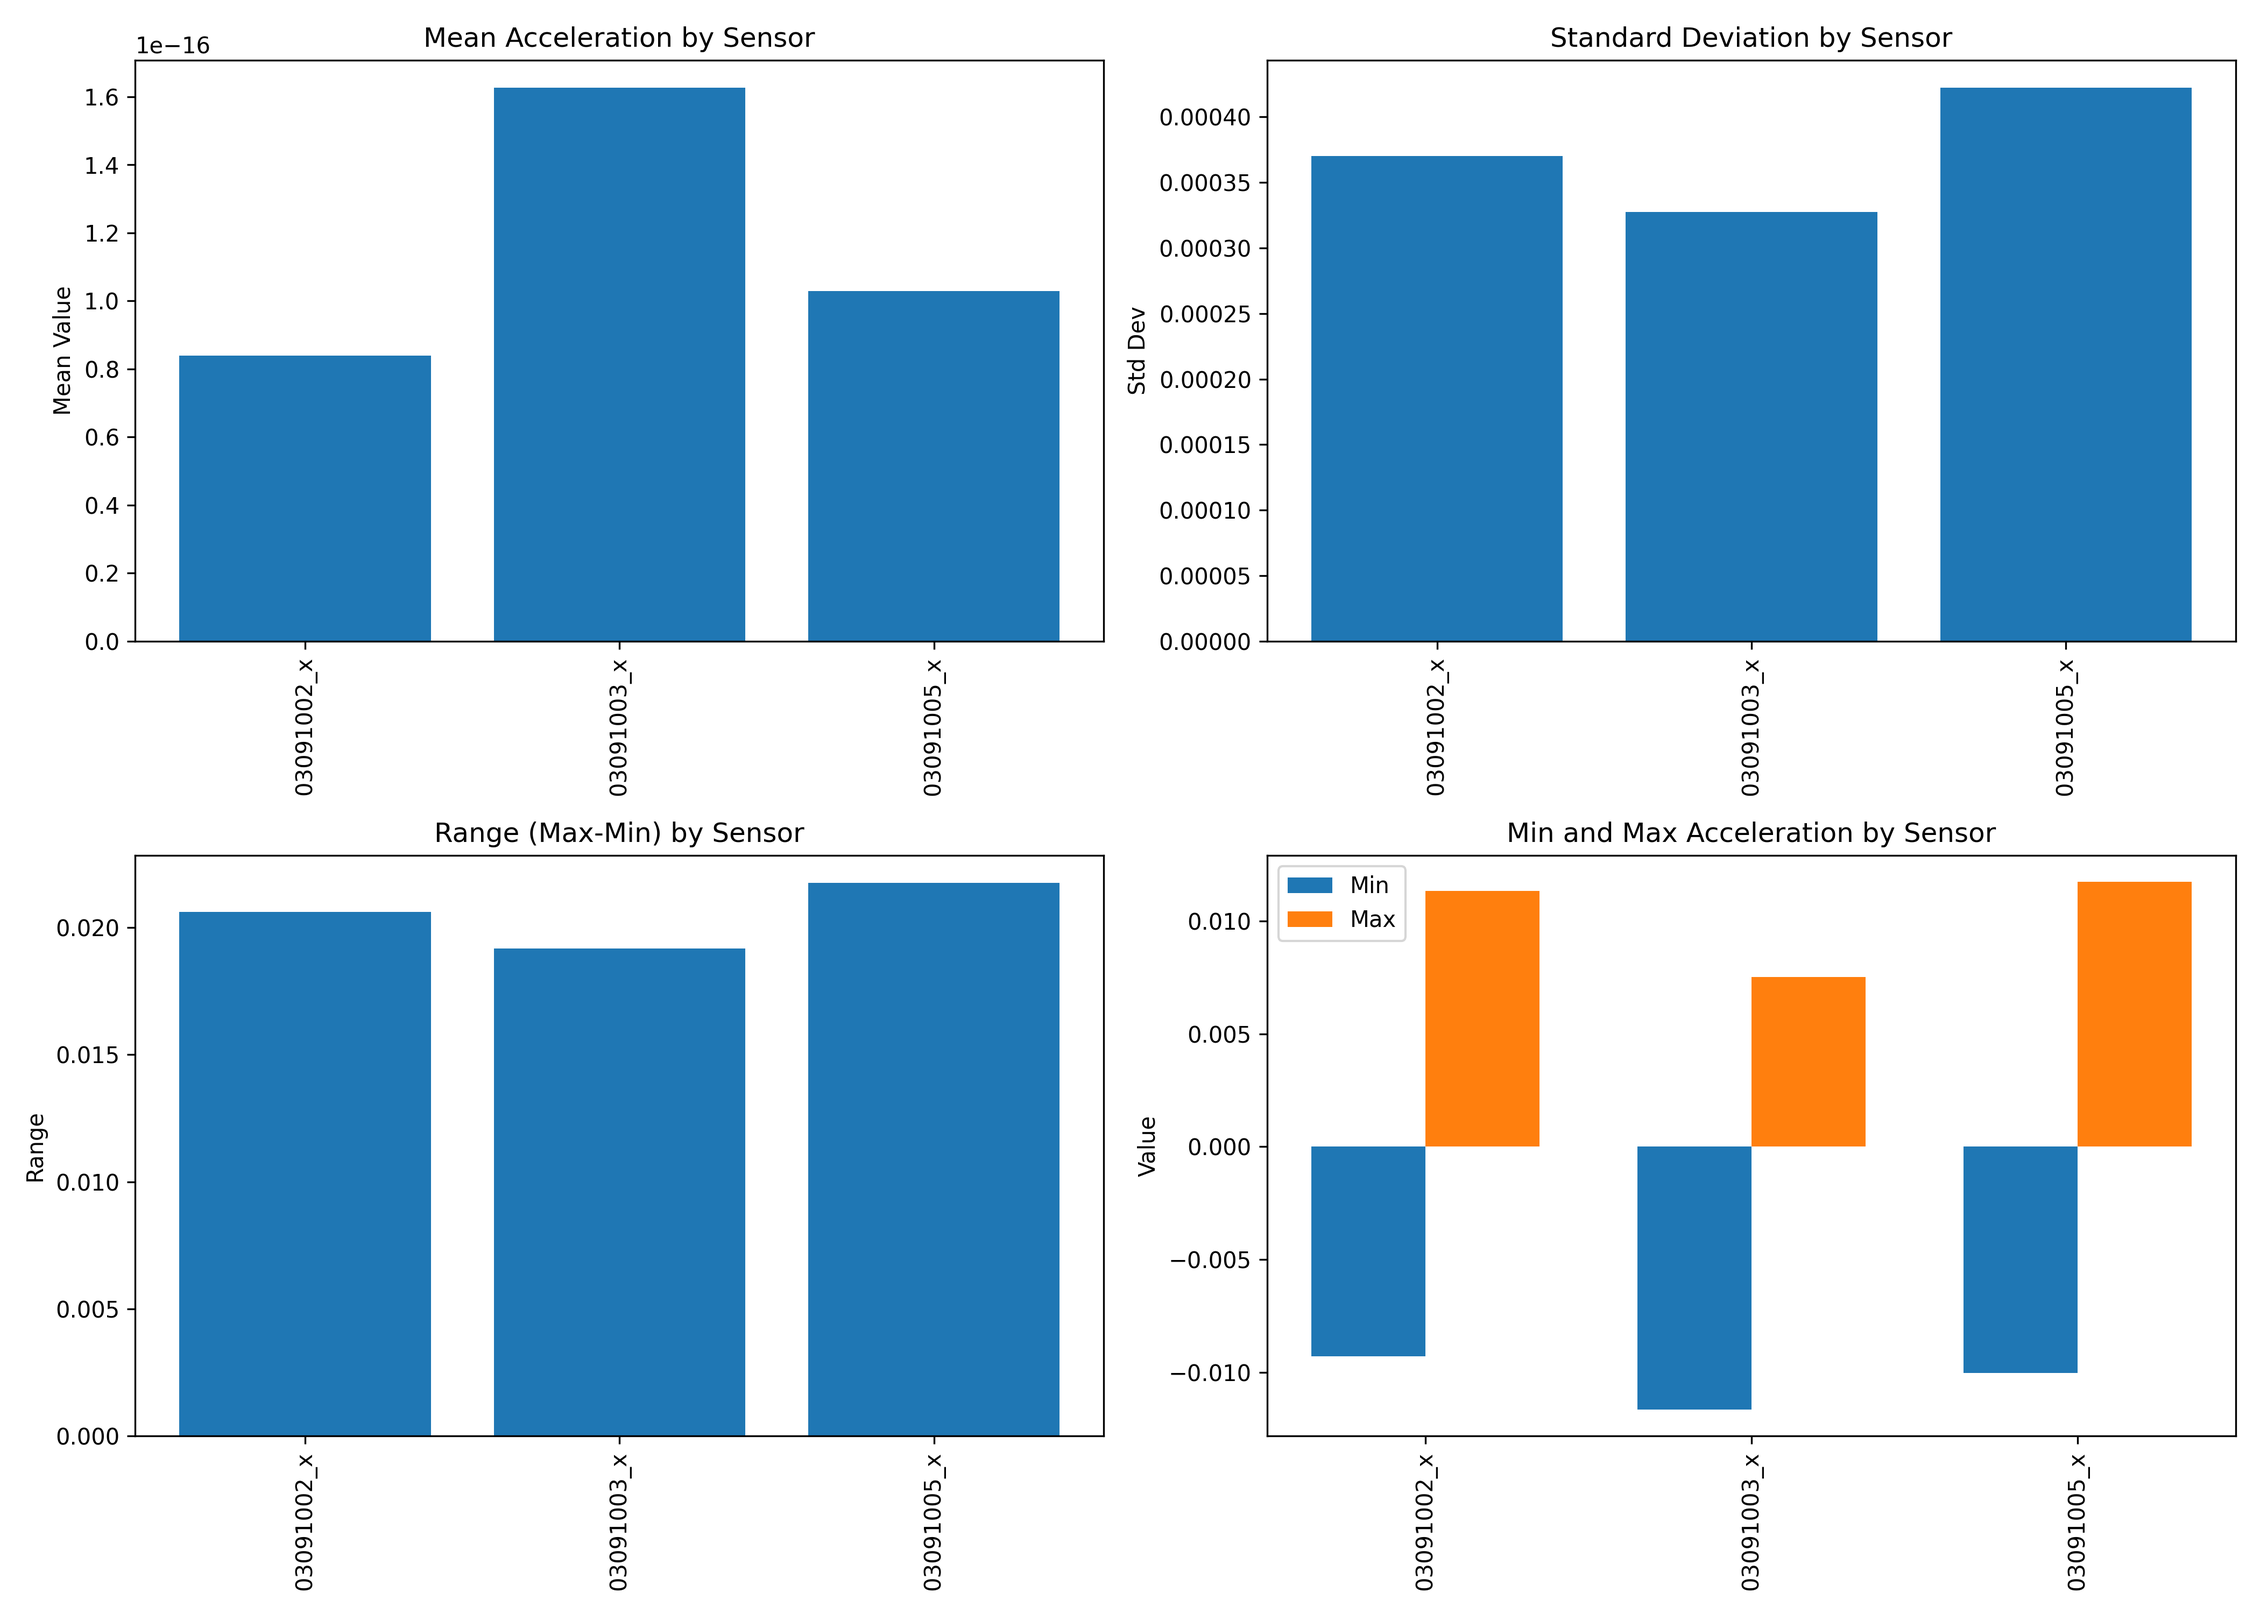
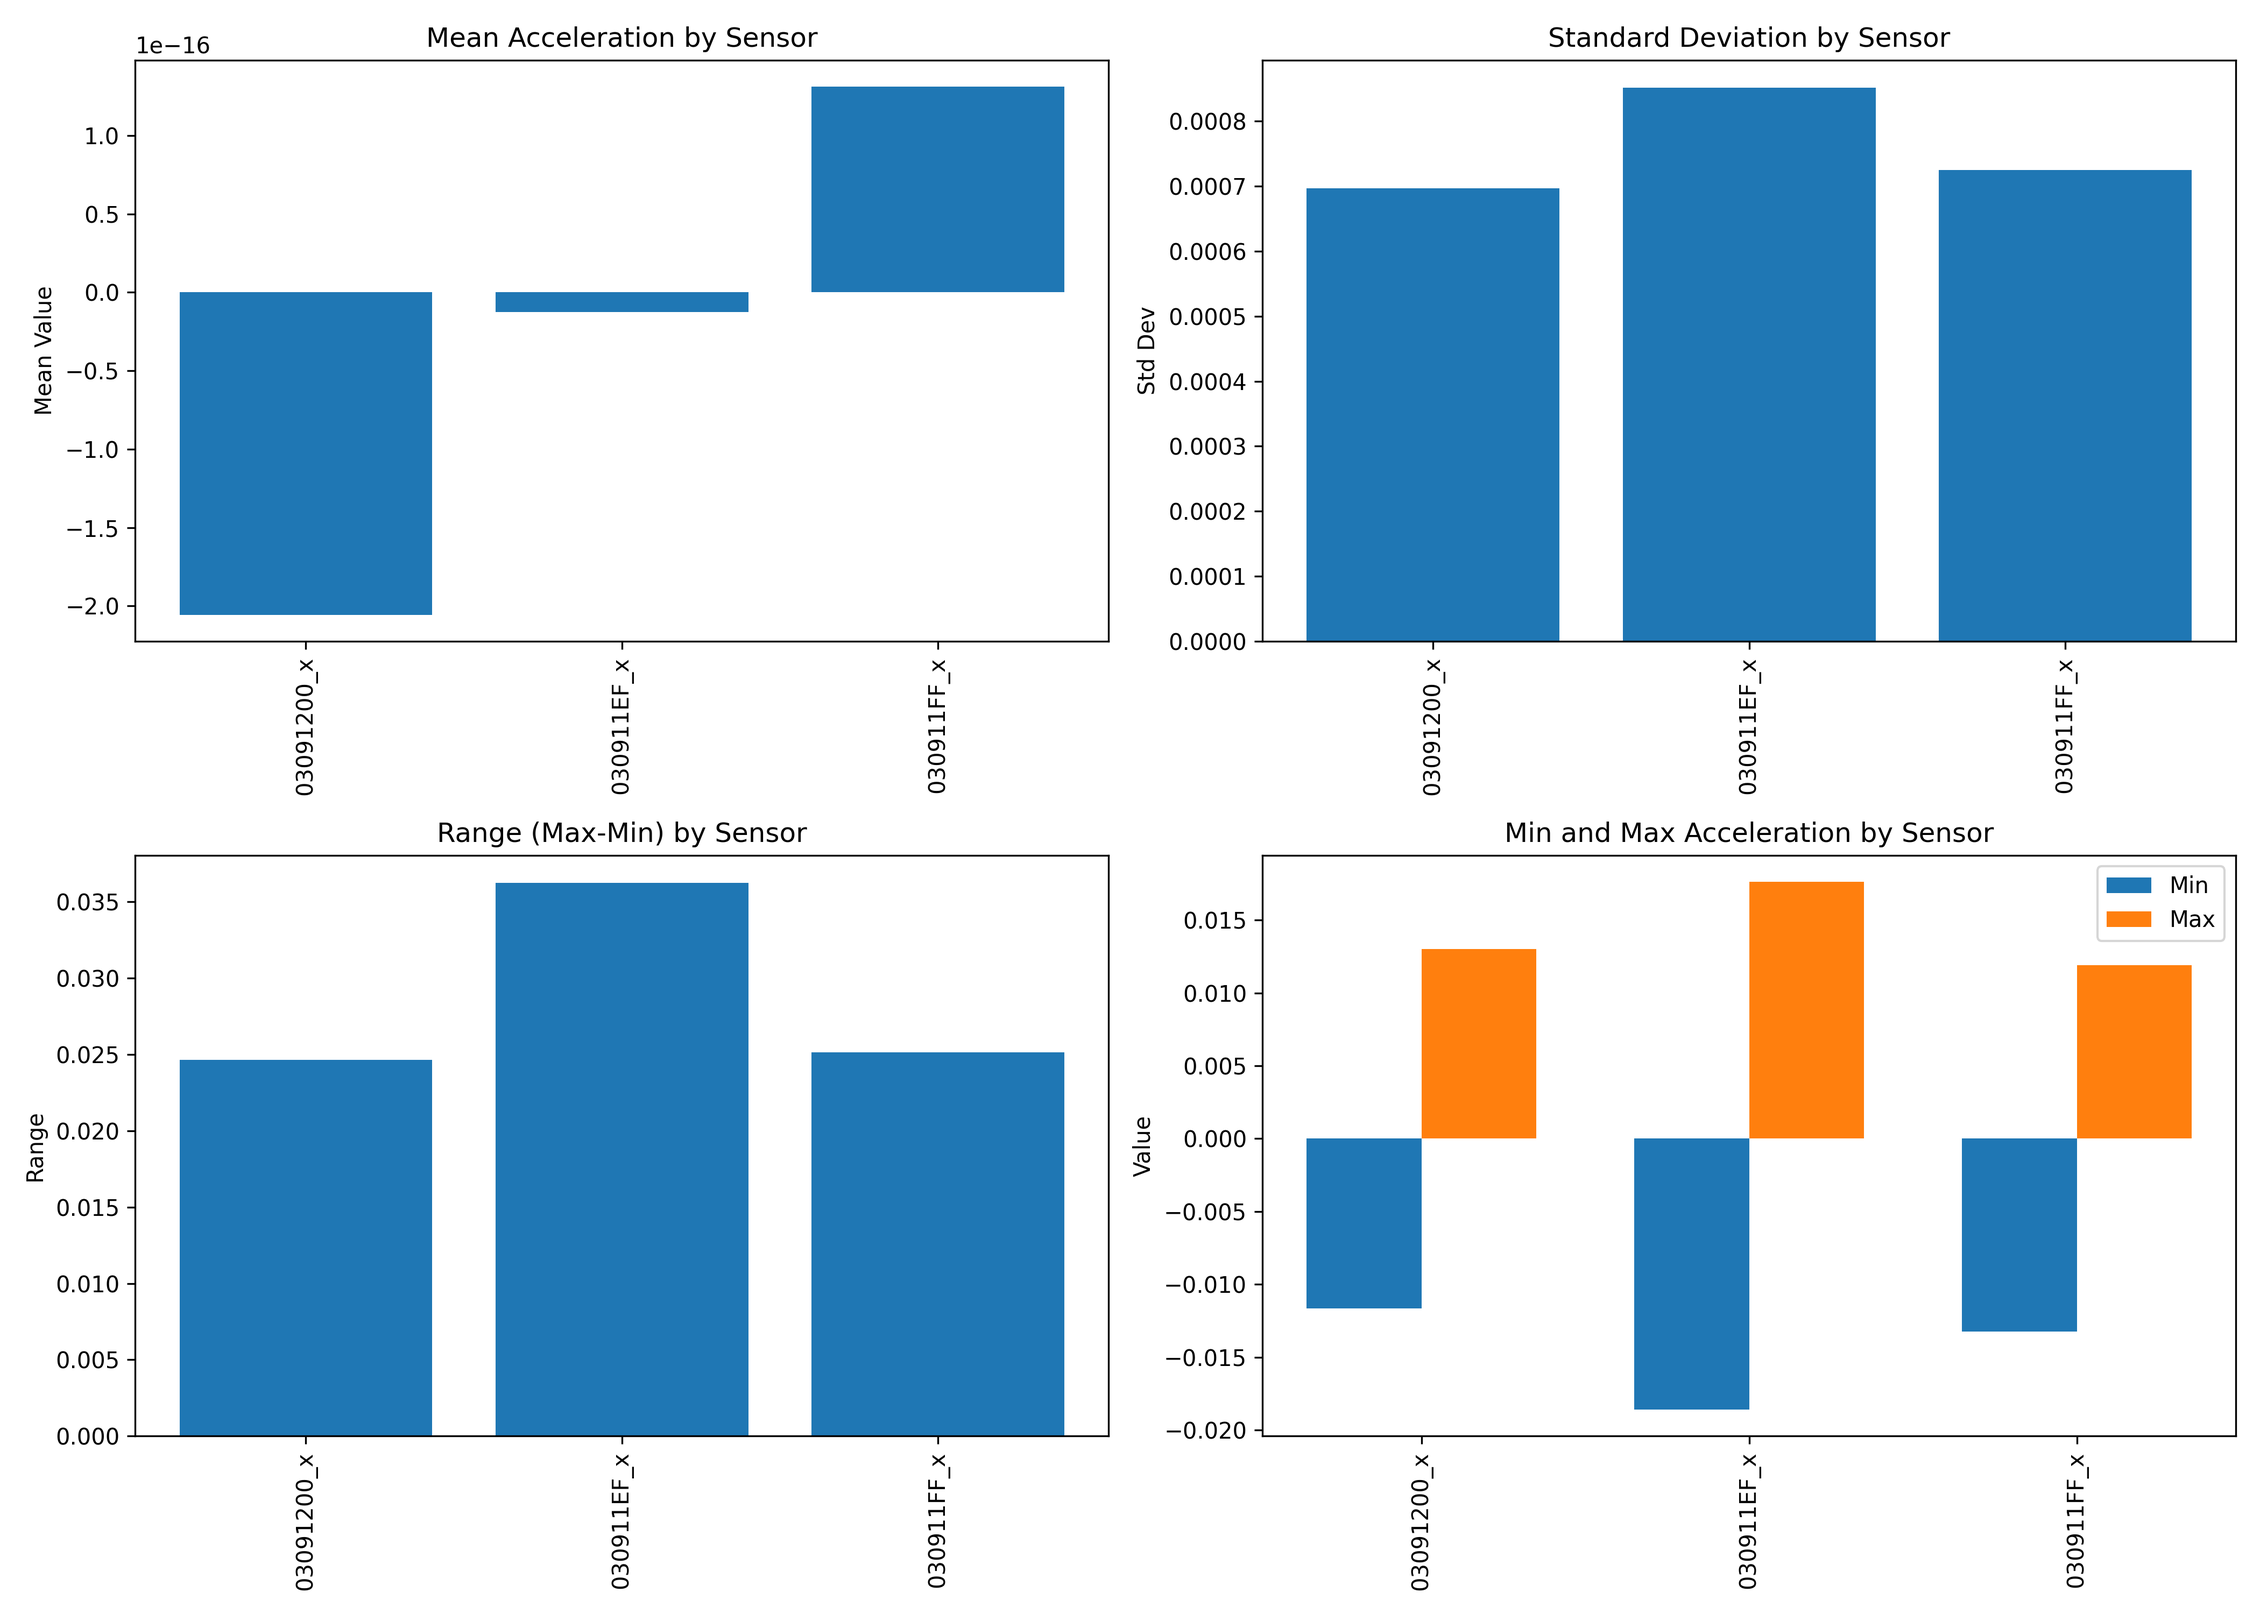
one campate analysis update

diff --git a/parque_oneday_stats.py b/parque_oneday_stats.py
@@ -49,7 +49,10 @@ def load_data_polars(filepath):
     #print(f"Found {len(sensor_columns)} sensor columns: {sensor_columns}")
     print(f"Using '{time_column}' as the time column")
     
-    sensor_columns = sensor_columns[:3]
+   
+    campate_sensor_columns = ['03091200_x', '030911EF_x', '030911FF_x'] 
+    sensor_columns = [col for col in campate_sensor_columns if col in df.columns]
+    #sensor_columns = sensor_columns['03091200_x', '030911EF_x', '030911FF_x']
     memory_usage()
     return df, sensor_columns, time_column
 
@@ -87,10 +90,6 @@ def filter_dc_by_mean(df: pl.DataFrame, sensor_columns: list[str]) -> pl.DataFra
     #print(result_df.head(1))
 
     return result_df
-
-
-
-
 
 
 def visualize_all_sensors(df, sensor_columns, time_column, sample_interval):
@@ -144,7 +143,6 @@ def visualize_all_sensors(df, sensor_columns, time_column, sample_interval):
     
     print("All sensors visualization saved to all_sensors_acceleration.png")
     memory_usage()
-
 
 
 def compare_sensors_statistics(df, sensor_columns, time_column):
@@ -275,7 +273,7 @@ def visualize_sensor_histograms(df, sensor_columns, bins=50):
 
 def main():
     # Path to your parquet file
-    parquet_file = "/Users/thomas/Desktop/phd_unipv/Industrial_PhD/Data/20250208/csv_acc/combined.parquet"  # Update with your actual file path
+    parquet_file = "/Users/thomas/Desktop/phd_unipv/Industrial_PhD/Data/20250212/csv_acc/combined_02_12_24.parquet"  # Update with your actual file path
     
     # Load data using Polars
     df, sensor_columns, time_column = load_data_polars(parquet_file)
@@ -283,7 +281,8 @@ def main():
     no_dc_df = filter_dc_by_mean(df, sensor_columns)
     
     # Visualize all sensors (sampled for performance)
-    visualize_all_sensors(no_dc_df, sensor_columns, time_column, sample_interval= 8640023)
+
+    visualize_all_sensors(no_dc_df, sensor_columns, time_column, sample_interval= 360000)
     
     # Calculate and compare sensor statistics
     stats_df = compare_sensors_statistics(no_dc_df, sensor_columns, time_column)
